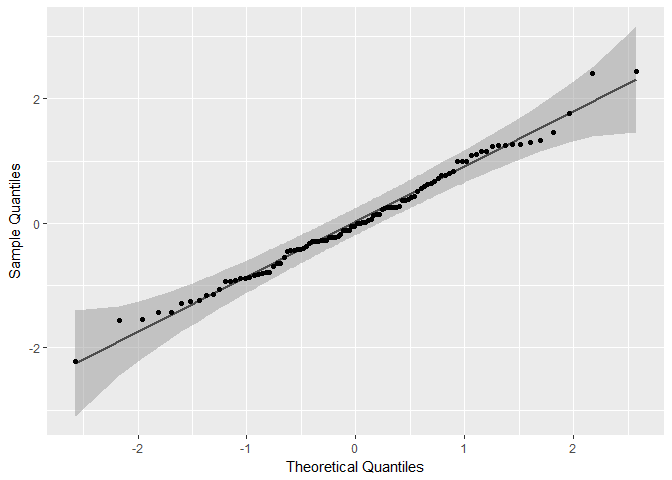
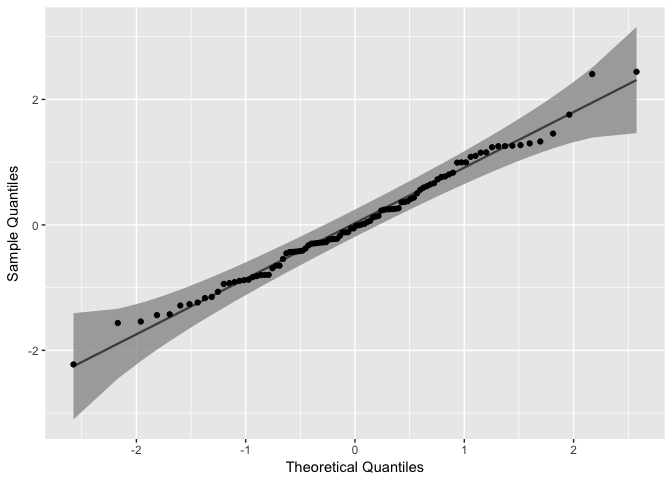
adding geom for qq_band

diff --git a/README.md b/README.md
@@ -61,16 +61,17 @@ gg
 
 <img src="man/figures/README-unnamed-chunk-5-1.png" style="display: block; margin: auto;" />
 
-As previously described in the Details section, three confidence bands constructs are available, which may be adjusted with the `bandType` parameter. The corresponding color legend for the confidence bands methods is: <span style="color:lime">`bs`</span>, <span style="color:red">`normal`</span>, and <span style="color:blue">`ts`</span>.
+As previously described in the Details section, three confidence bands constructs are available, which may be adjusted with the `bandType` parameter.
 
 ``` r
 gg <- ggplot(data = smp, mapping = aes(sample = norm)) +
-    stat_qq_band(bandType = "ts", fill = rgb(.0, .0, 1, .65)) +
-    stat_qq_band(bandType = "normal", fill = rgb(1, 0, 0, .65)) +
-    stat_qq_band(bandType = "bs", fill = rgb(.0, 1, .0, .65)) +
+    geom_qq_band(bandType = "ts", aes(fill = "TS")) +
+    geom_qq_band(bandType = "normal", aes(fill = "Normal")) +
+    geom_qq_band(bandType = "bs", aes(fill = "Bootstrap")) +
     stat_qq_line() +
     stat_qq_point() +
-    labs(x = "Theoretical Quantiles", y = "Sample Quantiles")
+    labs(x = "Theoretical Quantiles", y = "Sample Quantiles") +
+    scale_fill_discrete("Bandtype")
 gg
 ```
 
